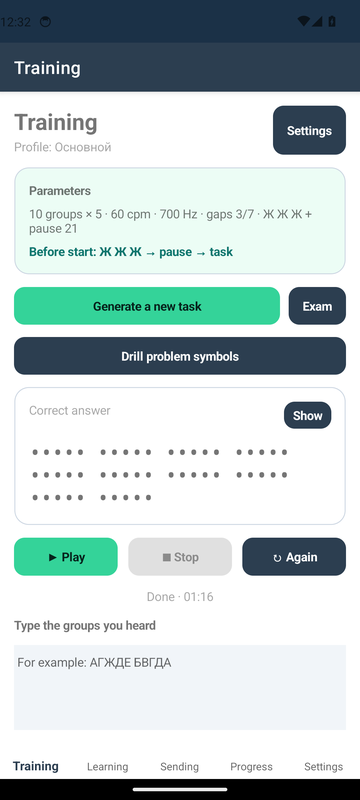
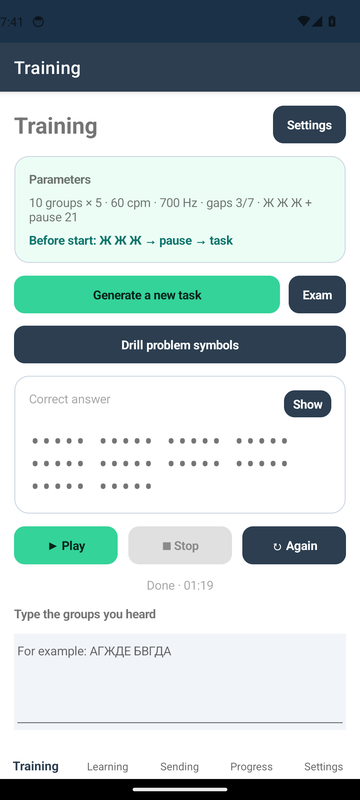
Refresh phone screenshots for 2.6.0
Экраны телефона из дымового теста 2.6.0: тренировка без профиля, новые
настройки («Что тренировать» сверху), обучение с курсом.

diff --git a/README.md b/README.md
@@ -84,9 +84,9 @@
 
 Телефон (Android, снимки дымового теста на эмуляторе, язык системы — английский):
 
-| Тренировка | Обучение и курс | Прогресс |
+| Тренировка | Настройки | Обучение и курс |
 |---|---|---|
-| ![Phone training](docs/screenshots/phone-training.png) | ![Phone learning](docs/screenshots/phone-learning.png) | ![Phone progress](docs/screenshots/phone-progress.png) |
+| ![Phone training](docs/screenshots/phone-training.png) | ![Phone settings](docs/screenshots/phone-settings.png) | ![Phone learning](docs/screenshots/phone-learning.png) |
 
 ## Скачать готовую программу
 
